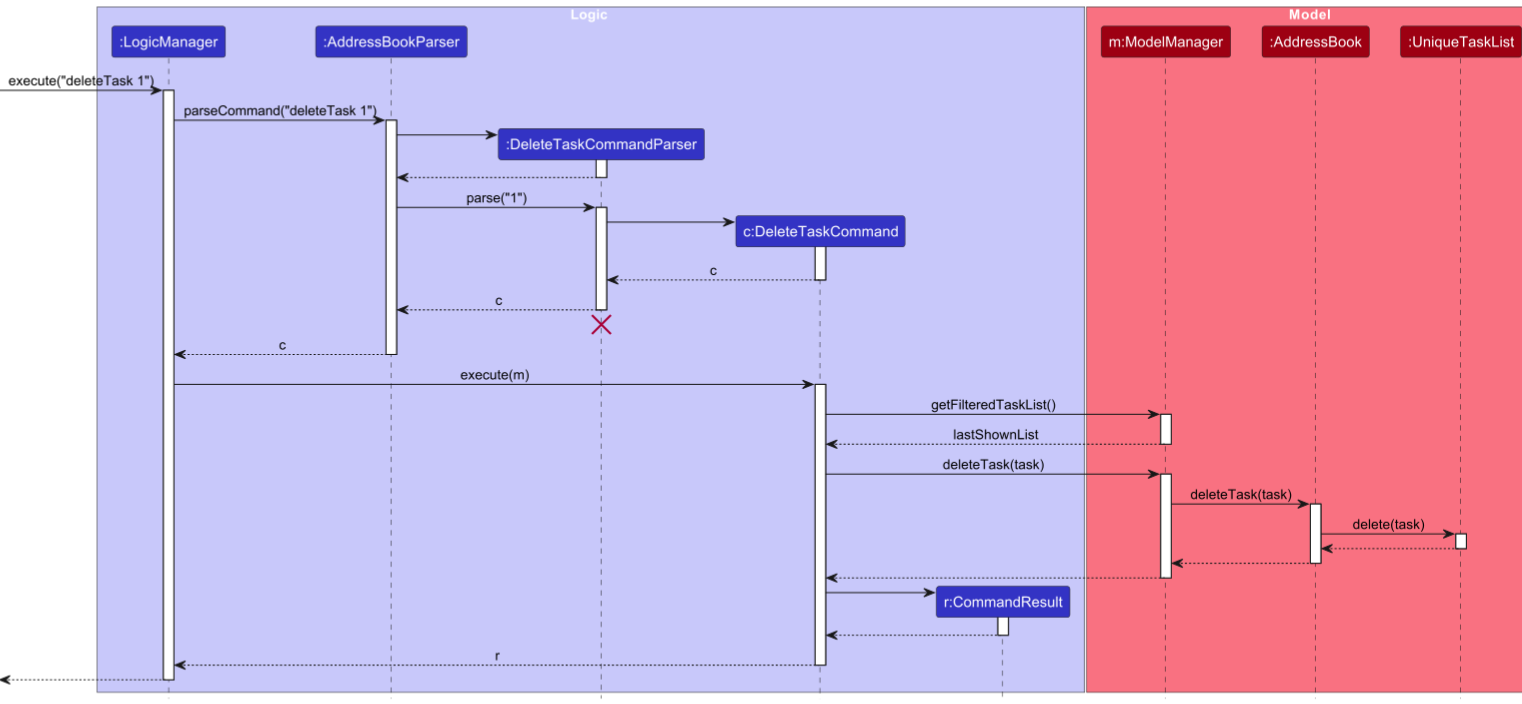
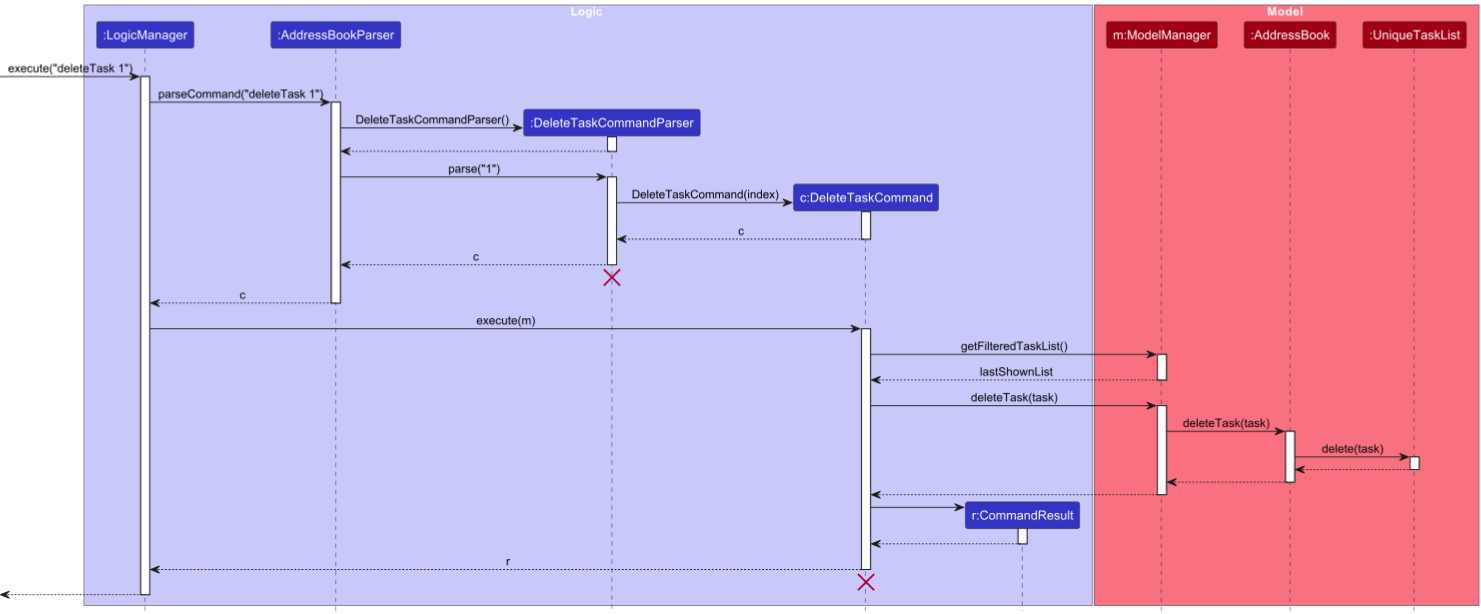
docs: Update deleteTask, deletePerson, addTagTask and addTagPerson

Changed region(s): [[0.0, 0.0, 1.0, 0.9902], [0.3106, 0.4023, 0.3417, 0.4332], [0.1553, 0.4642, 0.1864, 0.4951]]

diff --git a/docs/DeveloperGuide.md b/docs/DeveloperGuide.md
@@ -62,7 +62,7 @@ The bulk of the app's work is done by the following four components:
 
 **How the architecture components interact with each other**
 
-The *Sequence Diagram* below shows how the components interact with each other for the scenario where the user issues the command `delete 1`.
+The *Sequence Diagram* below shows how the components interact with each other for the scenario where the user issues the command `deletePerson 1`.
 
 <img src="images/ArchitectureSequenceDiagram.png" width="574" />
 
@@ -94,7 +94,7 @@ The `UI` component,
 * executes user commands using the `Logic` component.
 * listens for changes to `Model` data so that the UI can be updated with the modified data.
 * keeps a reference to the `Logic` component, because the `UI` relies on the `Logic` to execute commands.
-* depends on some classes in the `Model` component, as it displays `Person` object residing in the `Model`.
+* depends on some classes in the `Model` component, as it displays `Person` and `Task` object residing in the `Model`.
 
 <div style="page-break-after: always;"></div>
 
@@ -108,18 +108,20 @@ Here's a (partial) class diagram of the `Logic` component:
 
 The sequence diagram below illustrates the interactions within the `Logic` component, taking `execute("delete 1")` API call as an example.
 
-![Interactions Inside the Logic Component for the `delete 1` Command](images/DeleteSequenceDiagram.png)
+![Interactions Inside the Logic Component for the `deletePerson 1` Command](images/DeletePersonSequenceDiagram.png)
 
 {% include admonition.html type="note" title="Note" body="
 
-The lifeline for <code>DeleteCommandParser</code> should end at the destroy marker (X) but due to a limitation of PlantUML, the lifeline reaches the end of diagram.
+The lifeline for <code>DeletePersonCommandParser</code> should end at the destroy marker (X) but due to a limitation of 
+PlantUML, the lifeline reaches the end of diagram.
 
 " %}
 
 How the `Logic` component works:
 
 1. When `Logic` is called upon to execute a command, it is passed to an `AddressBookParser` object which in turn creates a parser that matches the command (e.g., `DeleteCommandParser`) and uses it to parse the command.
-2. This results in a `Command` object (more precisely, an object of one of its subclasses e.g., `DeleteCommand`) which is executed by the `LogicManager`.
+2. This results in a `Command` object (more precisely, an object of one of its subclasses e.g., `DeletePersonCommand`) 
+   which is executed by the `LogicManager`.
 3. The command can communicate with the `Model` when it is executed (e.g. to delete a person).
 4. The result of the command execution is encapsulated as a `CommandResult` object which is returned back from `Logic`.
 
@@ -128,8 +130,12 @@ Here are the other classes in `Logic` (omitted from the class diagram above) tha
 <img src="images/ParserClasses.png" width="600"/>
 
 How the parsing works:
-* When called upon to parse a user command, the `AddressBookParser` class creates an `XYZCommandParser` (`XYZ` is a placeholder for the specific command name e.g., `AddCommandParser`) which uses the other classes shown above to parse the user command and create a `XYZCommand` object (e.g., `AddCommand`) which the `AddressBookParser` returns back as a `Command` object.
-* All `XYZCommandParser` classes (e.g., `AddCommandParser`, `DeleteCommandParser`, ...) inherit from the `Parser` interface so that they can be treated similarly where possible e.g, during testing.
+* When called upon to parse a user command, the `AddressBookParser` class creates an `XYZCommandParser` (`XYZ` is a 
+  placeholder for the specific command name e.g., `AddPersonCommandParser`) which uses the other classes shown above to 
+  parse the user command and create a `XYZCommand` object (e.g., `AddPersonCommand`) which the `AddressBookParser` 
+  returns back as a `Command` object.
+* All `XYZCommandParser` classes (e.g., `AddPersonCommandParser`, `DeletePersonCommandParser`, ...) inherit from the 
+  `Parser` interface so that they can be treated similarly where possible e.g, during testing.
 
 <div style="page-break-after: always;"></div>
 
@@ -180,6 +186,38 @@ Classes used by multiple components are in the `seedu.addressbook.commons` packa
 ## **Implementation**
 
 This section describes some noteworthy details on how certain features are implemented.
+
+### Delete Person feature
+
+#### Implementation
+
+The `deletePerson` command accepts a numeric Index, and removes the person at that index from the person list.
+
+The sequence diagram below illustrates how the `deletePerson` command works for the example input `deletePerson 1`.
+
+![DeletePersonSequenceDiagram](images/DeletePersonSequenceDiagram.png)
+
+{% include admonition.html type="note" title="Note" body="
+
+The lifeline for <code>DeletePersonCommandParser</code> and <code>DeletePersonCommand</code> should end at the destroy 
+marker (X) but due to a limitation of PlantUML, the lifeline reaches the end of diagram.
+
+" %}
+
+#### Design considerations
+
+**Aspect: How delete executes:**
+
+* **Alternative 1 (current choice):** Deletes task based on the filtered list shown to the user.
+    * Pros: Users do not have to use the `listPerson` command everytime before they delete a person.
+    * Cons: Users cannot delete a person that is not shown in the filtered list. <br/><br/>
+
+* **Alternative 2:** Deletes person based on the full list of persons.
+    * Pros: Users can delete a person that is not shown in the filtered list.
+    * Cons: Users have to use the `listPerson` command everytime to confirm the index of the person before they 
+      delete the person.
+
+<div style="page-break-after: always;"></div>
 
 ### List Task feature
 
@@ -335,8 +373,8 @@ The sequence diagram below illustrates how the `deleteTask` command works for th
 
 {% include admonition.html type="note" title="Note" body="
 
-The lifeline for <code>DeleteTaskCommandParser</code> should end at the destroy marker (X) but due to a limitation of
-PlantUML, the lifeline reaches the end of diagram.
+The lifeline for <code>DeleteTaskCommandParser</code> and <code>DeleteTaskCommand</code>  should end at the destroy 
+marker (X) but due to a limitation of PlantUML, the lifeline reaches the end of diagram.
 
 " %}
 
@@ -490,30 +528,30 @@ Priorities:
 * `* *` - Medium (nice to have)
 * `*` - Low (unlikely to have)
 
-| Priority | As a …                                     | I want to …                        | So that I can …                                                        |
-| -------- | ------------------------------------------ | ---------------------------------- | ---------------------------------------------------------------------- |
+| Priority | As a …                                     | I want to …                       | So that I can …                                                     |
+| -------- | ------------------------------------------ |------------------------------------|----------------------------------------------------------------------|
 | `* * *`  | new user                                   | see help instructions              | refer to documentation to understand the existing features effectively |
-| `* * *`  | event planner                              | view both lists on the same screen | compare the task list and contact list while using the GUI             |
-| `* * *`  | event planner                              | add a new person's details         | remember details of new people I meet                                  |
-| `* * *`  | event planner                              | list each person's details         | view all my contacts' details at a quick glance                        |
-| `* * *`  | event planner                              | edit a person's details            | update details of persons that are outdated with new information       |
-| `* * *`  | event planner                              | find a person by name              | locate a specific person without having to go through the entire list  |
-| `* * *`  | event planner                              | delete a contact                   | remove contacts that I no longer need                                  |
-| `* * *`  | event planner                              | delete all contacts                | efficiently restart or declutter my contacts list                      |
-| `* * *`  | event planner                              | create tasks to do                 | know what tasks I need to do in preparation for the event              |
-| `* * *`  | event planner                              | list each task's details           | view all my tasks' details at a quick glance                           |
-| `* * *`  | event planner                              | edit a task                        | ensure task details are up-to-date with latest information             |
-| `* * *`  | event planner                              | find a task by name                | locate a specific task without having to go through the entire list    |
-| `* * *`  | event planner                              | delete a task                      | remove tasks that are no longer relevant                               |
-| `* * *`  | event planner                              | delete all tasks                   | clear all task entries and restart with a new clean task list          |
-| `* * *`  | event planner                              | mark a task as done                | keep track of task progress and the number of tasks that are done      |
-| `* * *`  | event planner                              | mark a task as not done            | keep track of task progress and the number of tasks that are not done  |
-| `* * *`  | event planner                              | save my data automatically         | ensure that my contact and task data will not be lost                  |
-| `* * *`  | event planner                              | load my data automatically         | quickly continue from where I left off in the last session             |
-| `*`      | user                                       | hide private contact details       | minimize chance of someone else seeing them by accident                |
-| `*`      | user with many persons in the address book | sort persons by name               | locate a person easily                                                 |
-
-*{More to be added}*
+| `* * *`  | event planner                              | view both lists on the same screen | compare the task list and contact list while using the GUI           |
+| `* * *`  | event planner                              | add a new person's details         | remember details of new people I meet                                |
+| `* * *`  | event planner                              | list each person's details         | view all my contacts' details at a quick glance                      |
+| `* * *`  | event planner                              | edit a person's details            | update details of persons that are outdated with new information     |
+| `* * *`  | event planner                              | find a person by name              | locate a specific person without having to go through the entire list |
+| `* * *`  | event planner                              | delete a contact                   | remove contacts that I no longer need                                |
+| `* * *`  | event planner                              | delete all contacts                | efficiently restart or declutter my contacts list                    |
+| `* * *`  | event planner                              | create tasks to do                 | know what tasks I need to do in preparation for the event            |
+| `* * *`  | event planner                              | list each task's details           | view all my tasks' details at a quick glance                         |
+| `* * *`  | event planner                              | edit a task                        | ensure task details are up-to-date with latest information           |
+| `* * *`  | event planner                              | find a task by name                | locate a specific task without having to go through the entire list  |
+| `* * *`  | event planner                              | delete a task                      | remove tasks that are no longer relevant                             |
+| `* * *`  | event planner                              | delete all tasks                   | clear all task entries and restart with a new clean task list        |
+| `* * *`  | event planner                              | mark a task as done                | keep track of task progress and the number of tasks that are done    |
+| `* * *`  | event planner                              | mark a task as not done            | keep track of task progress and the number of tasks that are not done |
+| `* * *`  | event planner                              | add tag(s) to a person             | can just add tag(s) to the existing list of tags of the indexed person |
+| `* * *`  | event planner                              | add tag(s) to a task               | can just add tag(s) to the existing list of tags of the indexed task |
+| `* * *`  | event planner                              | save my data automatically         | ensure that my contact and task data will not be lost                |
+| `* * *`  | event planner                              | load my data automatically         | quickly continue from where I left off in the last session           |
+| `*`      | user                                       | hide private contact details       | minimize chance of someone else seeing them by accident              |
+| `*`      | user with many persons in the address book | sort persons by name               | locate a person easily                                               |
 
 <div style="page-break-after: always;"></div>
 
@@ -828,7 +866,69 @@ For all use cases below, the **System** is `CoordiMate` and the **Actor** is the
 
 ---
 
-**Use case: UC16 - Exit CoordiMate**
+**Use case: UC16 - Add tag to a person in the contact list**
+
+**MSS**
+
+1. User requests to list all persons.
+2. CoordiMate shows a list of persons.
+3. User requests to add tag(s) to a specific person in the list by index.
+4. CoordiMate edits the person to include the specified tag(s).
+
+   Use case ends.
+
+**Extensions**
+
+* 2a. The contact list is empty.
+
+  Use case ends.
+
+* 3a. The given index is invalid.
+
+    * 3a1. CoordiMate shows an error message and prompts the user to enter a valid index.
+
+      Use case resumes from step 3.
+
+* 3b. The given tag(s) are invalid.
+
+    * 3b1. CoordiMate shows an error message and prompts the user to enter valid tag(s).
+
+      Use case resumes from step 3.
+
+---
+
+**Use case: UC17 - Add tag to a task in the task list**
+
+**MSS**
+
+1. User requests to list all tasks.
+2. CoordiMate shows a list of tasks.
+3. User requests to add tag(s) to a specific task in the list by index.
+4. CoordiMate edits the task to include the specified tag(s).
+
+   Use case ends.
+
+**Extensions**
+
+* 2a. The task list is empty.
+
+  Use case ends.
+
+* 3a. The given index is invalid.
+
+    * 3a1. CoordiMate shows an error message and prompts the user to enter a valid index.
+
+      Use case resumes from step 3.
+
+* 3b. The given tag(s) are invalid.
+
+    * 3b1. CoordiMate shows an error message and prompts the user to enter valid tag(s).
+
+      Use case resumes from step 3.
+
+---
+
+**Use case: UC18 - Exit CoordiMate**
 
 **MSS**
 
@@ -839,7 +939,7 @@ For all use cases below, the **System** is `CoordiMate` and the **Actor** is the
 
 ---
 
-**Use case: UC17 - Load data from save file**
+**Use case: UC19 - Load data from save file**
 
 **MSS**
 
@@ -870,7 +970,7 @@ For all use cases below, the **System** is `CoordiMate` and the **Actor** is the
 
 ---
 
-**Use case: UC18 - Save data to save file**
+**Use case: UC20 - Save data to save file**
 
 **MSS**
 
@@ -895,7 +995,7 @@ For all use cases below, the **System** is `CoordiMate` and the **Actor** is the
 
 ---
 
-**Use case: UC19 - Find persons and tasks by tag**
+**Use case: UC21 - Find persons and tasks by tag**
 
 **MSS**
 
@@ -978,15 +1078,74 @@ testers are expected to do more <i>exploratory testing</i>.
 
 1. Deleting a person while all persons are being shown
 
-   1. Prerequisites: List all persons using the `list` command. Multiple persons in the list.
+   1. Prerequisites: List all persons using the `listPerson` command. Multiple persons in the list.
 
-   1. Test case: `delete 1`<br>
-      Expected: First contact is deleted from the list. Details of the deleted contact shown in the status message. Timestamp in the status bar is updated.
+   2. Test case: `deletePerson 1`<br>
+      Expected: First contact is deleted from the list. Details of the deleted contact shown in the result display. 
 
-   1. Test case: `delete 0`<br>
-      Expected: No person is deleted. Error details shown in the status message. Status bar remains the same.
+   3. Test case: `deletePerson` <br>
+      Expected: No person is deleted. Error details shown in the result display.
 
-   1. Other incorrect delete commands to try: `delete`, `delete x`, `...` (where x is larger than the list size)<br>
+   4. Other incorrect deletePerson commands to try: `deletePerson 0`, `deletePerson -5`, `deletePerson x` (where x is 
+      larger than the list size)<br>
+      Expected: Similar to previous.
+
+### Deleting a task
+
+1. Deleting a task while all the tasks are being shown
+
+   1. Prerequisites: List all tasks using the `listTask` command. Multiple tasks in the list.
+
+   2. Test case: `deleteTask 1`<br>
+      Expected: First task is deleted from the list. Details of the deleted task shown in the result display. 
+
+   3. Test case: `deleteTask` <br>
+      Expected: No task is deleted. Error details shown in the result display.
+
+   4. Other incorrect deleteTask commands to try: `deleteTask 0`, `deleteTask -5`, `deleteTask x` (where x is larger 
+      than the list size)<br>
+      Expected: Similar to previous.
+
+### Adding tag(s) to a person
+
+1. Adding a tag to a person with multiple tags
+
+   1. Prerequisites: List all persons using the `listPerson` command. Multiple persons in the list. 
+
+   2. Test case: `addTagPerson 1 t/caterer`<br>
+      Expected: Tag is added to the first person in the list. Details of the person shown in the result display. 
+
+   3. Test case: `addTagPerson 1 t/caterer` followed by `addTagPerson 1 t/caterer t/summer`<br>
+      Expected: Tag is added to the first person in the list. When the second command is run, `summer` is dded to 
+      the first person in the list but `caterer` is not added as a duplicate. Instead `caterer` is returned to the 
+      result display to already exist for the first person.
+
+   4. Test case: `addTagPerson`<br>
+      Expected: No tag is added to the first person in the list. Error details shown in the result display.
+
+   5. Other incorrect addTagPerson commands to try: `addTagPerson 1`, `addTagPerson 1 t/`, `addTagPerson x t/caterer` 
+      (where x is larger than the list size)<br>
+      Expected: Similar to previous.
+
+### Adding tag(s) to a task
+
+1. Adding a tag to a task with multiple tags
+
+   1. Prerequisites: List all tasks using the `listTask` command. Multiple tasks in the list. 
+
+   2. Test case: `addTagTask 1 t/finance`<br>
+      Expected: Tag is added to the first task in the list. Details of the task shown in the result display. 
+
+   3. Test case: `addTagTask 1 t/finance` followed by `addTagTask 1 t/finance t/class`<br>
+      Expected: Tag is added to the first task in the list. When the second command is run, `class` is added to 
+      the first task in the list but `finance` is not added as a duplicate. Instead `finance` is returned to the 
+      result display to already exist for the first task.
+
+   4. Test case: `addTagTask`<br>
+      Expected: No tag is added to the first task in the list. Error details shown in the result display.
+
+   5. Other incorrect addTagTask commands to try: `addTagTask 1`, `addTagTask 1 t/`, `addTagTask x t/finance` 
+      (where x is larger than the list size)<br>
       Expected: Similar to previous.
 
 1. _{ more test cases … }_
